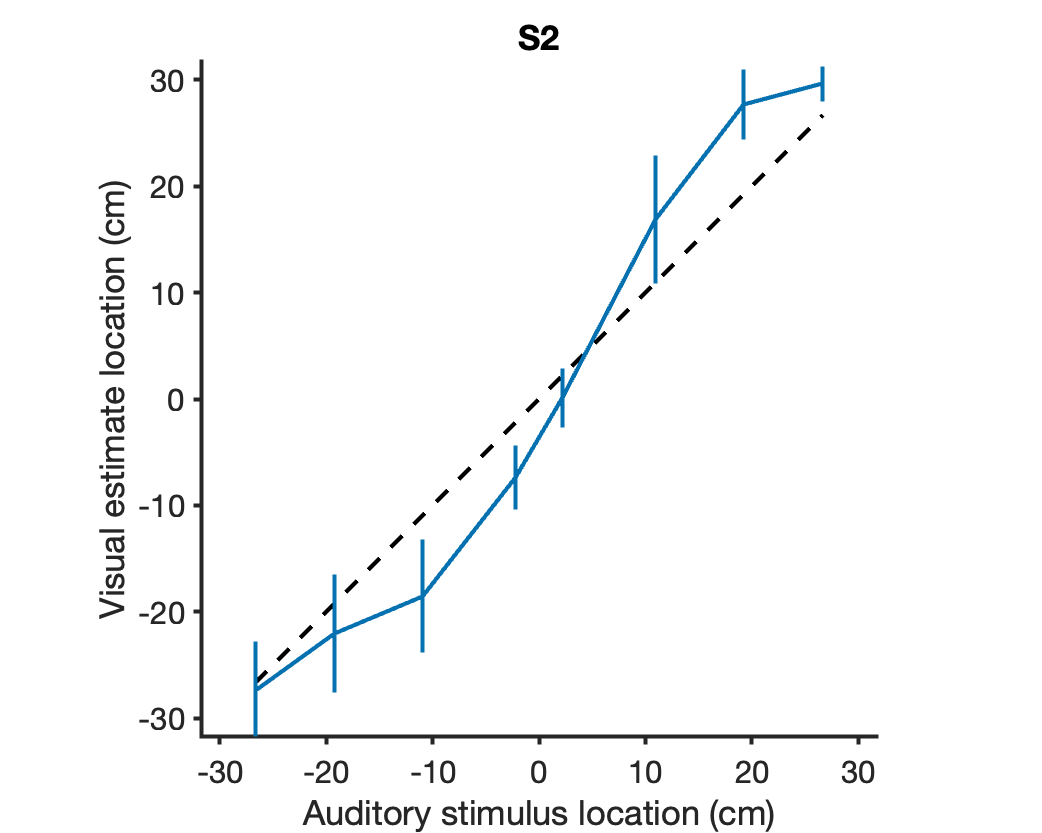
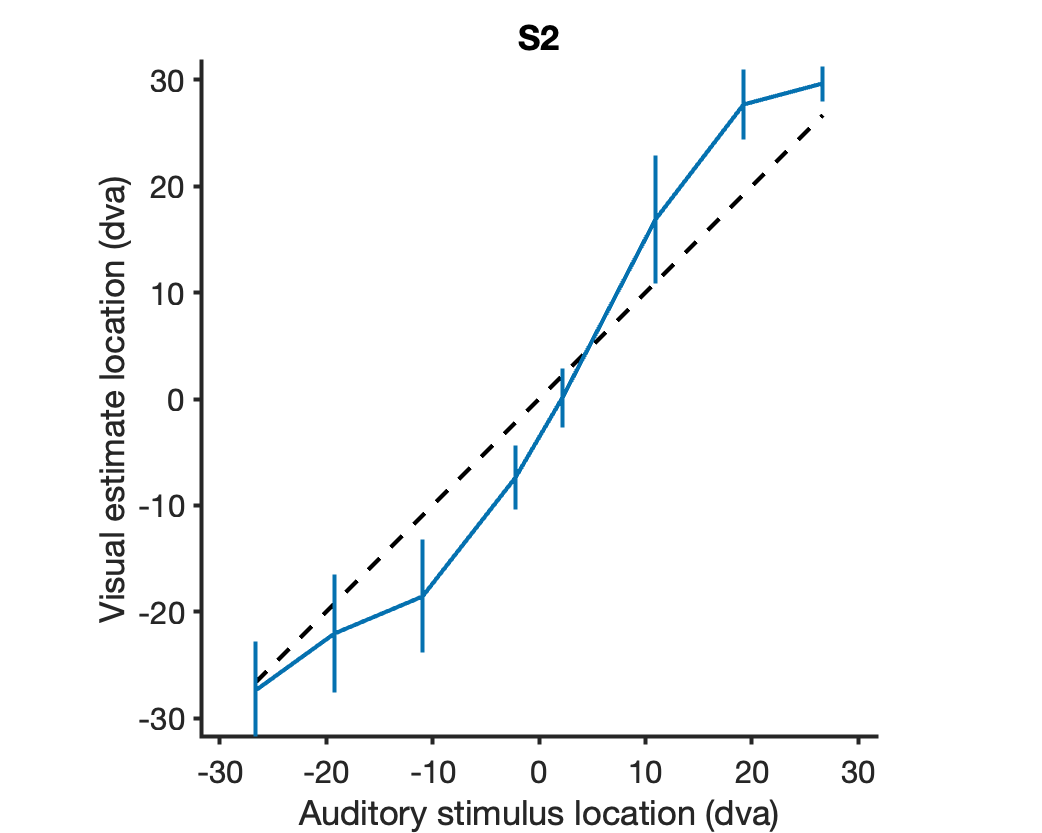
sub2 data

Changed region(s): [[0.0921, 0.1873, 0.1228, 0.7491], [0.2764, 0.9364, 0.7678, 0.9988]]

diff --git a/analysis/uniLoc/s1testAVBias.m b/analysis/uniLoc/s1testAVBias.m
@@ -51,8 +51,8 @@ title(sprintf('S%i', sub))
 switch ses
 
     case '-A'
-        xlabel('Auditory stimulus location (deg)')
-        ylabel('Visual estimate location (deg)')
+        xlabel('Auditory stimulus location (dva)')
+        ylabel('Visual estimate location (dva)')
 
 end
 
